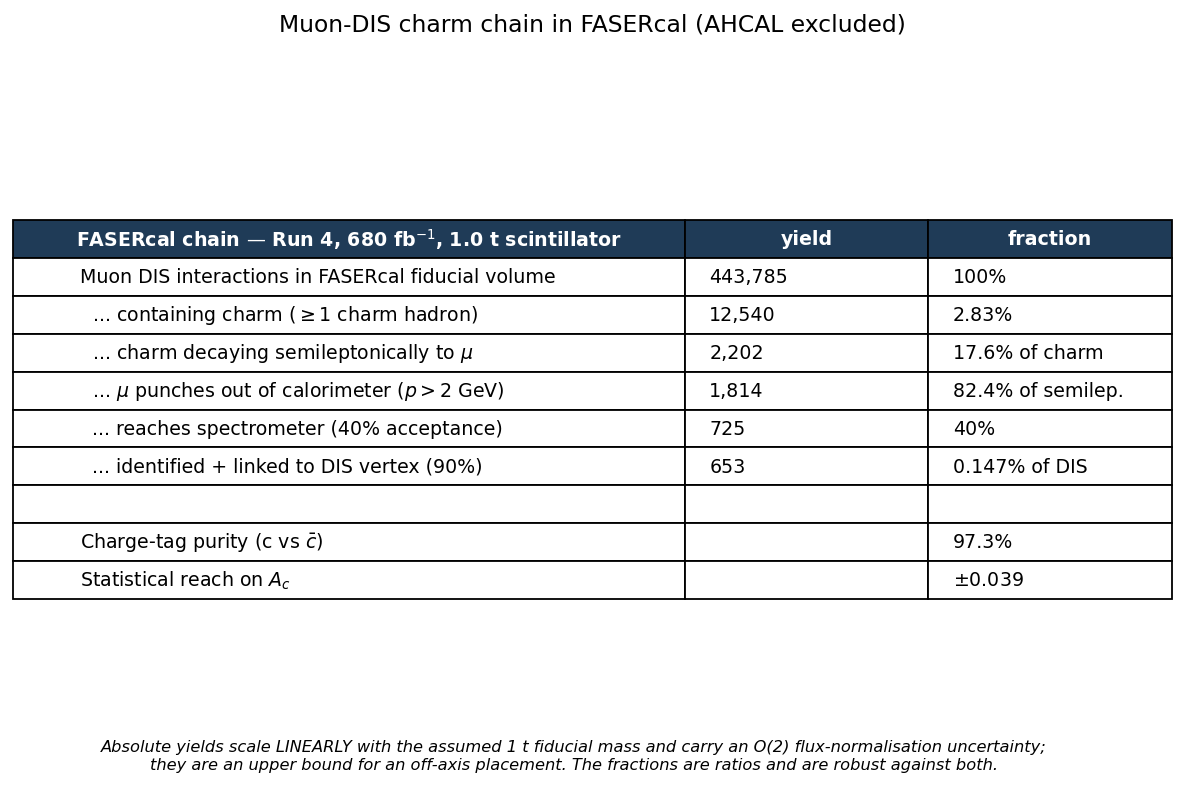
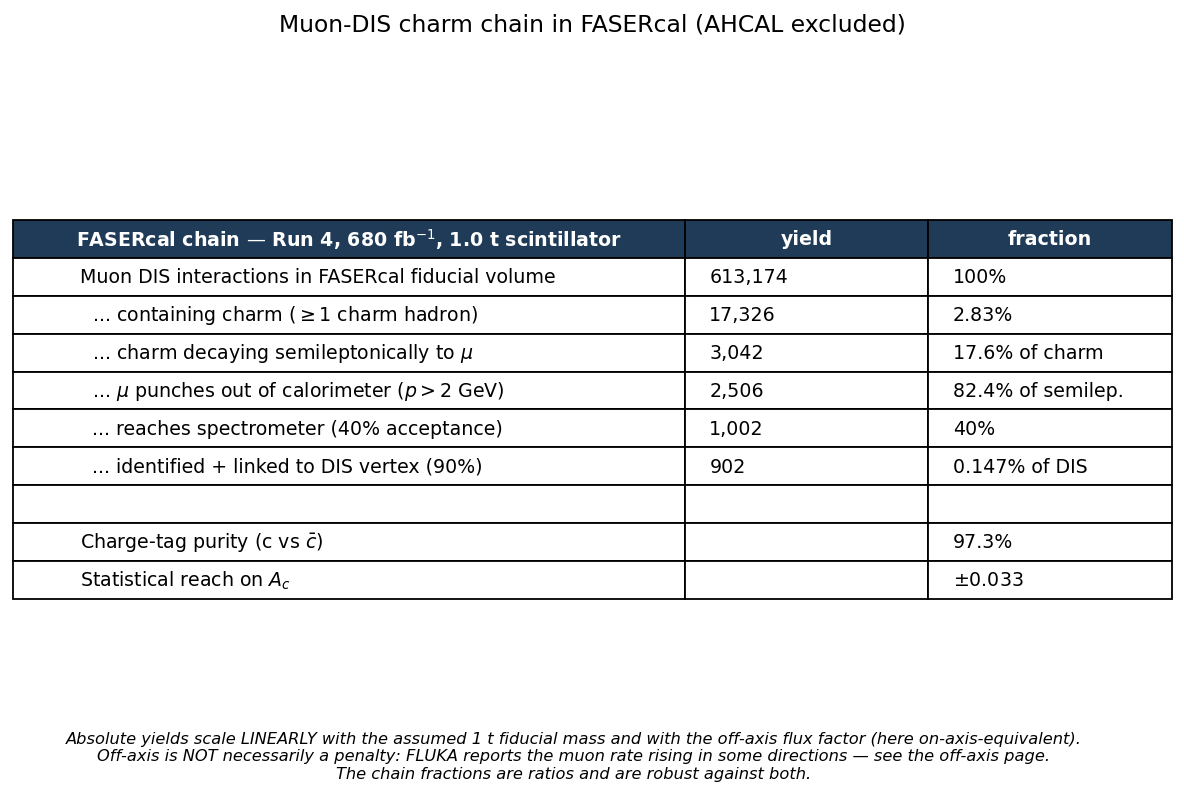
Off-axis flux as first-class input; fix reference mass (yields x1.38)
Two findings from reading arXiv:2506.13889 Sec 2 properly.

(a) REFERENCE MASS WAS WRONG. Eq (2.1) defines the flux as
f_mu = n_T L_T dN_mu/dx_mu, i.e. the tungsten target is baked into the flux
normalisation: a 25x30 cm^2 face over L_T = 50 cm of tungsten = 0.724 t, not
the 1.0 t assumed. Correcting M_REF_T raises all absolute yields by 1.382, and
partly closes the long-standing gap with the paper: 2.34x -> 1.69x. So a factor
1.38 of the known "~2x flux discrepancy" was a target-geometry bookkeeping
error, not a flux problem. Residual ~1.7x still attributed to the flux variant.

Nominal chain becomes: 613,174 DIS -> 17,326 charm -> 3,042 semileptonic mu ->
2,506 punch-through -> 1,002 accepted -> 902 tagged; sigma(A_c) = 0.033.
Fractions unchanged (they are ratios).

(b) THE "OFF-AXIS IS AN UPPER BOUND" CAVEAT WAS WRONG. The paper places the
detector axis at (1 cm, -3.3 cm) from the LoS, so the flux set is effectively
ON-AXIS -- but off-axis is not a monotonic suppression. The LHC lattice sweeps
mu+ and mu- in OPPOSITE directions (the paper's Fig 2.1 asymmetry), and FLUKA
studies for the FPF report the rate RISING by up to an order of magnitude in
some directions beyond ~1 m, and substantially higher at ~2 m in the horizontal
bending plane. Going off-axis can therefore INCREASE the muon-DIS yield.

F_FLUX is now a first-class, documented input with a scan over 0.3-10 (the
plausible range, a factor 30) and a dedicated report page: yields scale
[…]

Changed region(s): [[0.0, 0.2752, 1.0, 0.7643], [0.0625, 0.9172, 0.9062, 1.0]]

diff --git a/python/fasercal_chain.py b/python/fasercal_chain.py
@@ -25,17 +25,21 @@ factors, each of which is a separate, checkable assumption:
 MASS is a pure multiplicative factor, so the whole report can be rescaled to the
 real 3DCAL fiducial mass by changing M_FID_T alone.
 
-F_FLUX caveat: the flux set describes the on-axis line-of-sight muon flux.  An
-OFF-AXIS detector sees a reduced flux, and that suppression factor is NOT in the
-Run 4 TP (Sec. 6 is an empty placeholder in v0.01).  F_FLUX is therefore left at
-1.0 = "on-axis-equivalent flux per unit area", and every absolute yield in this
-report must be read as an UPPER BOUND for an off-axis placement until the real
-off-axis flux is supplied.
+F_FLUX caveat: the flux set is evaluated with the detector axis at
+(x,y) = (1 cm, -3.3 cm) w.r.t. the line of sight, i.e. effectively ON-AXIS.
+An off-axis detector does NOT simply see less: the LHC magnetic lattice sweeps
+mu+ and mu- in opposite directions, so the flux is strongly asymmetric about the
+LoS and FLUKA studies report it RISING by up to an order of magnitude in some
+directions beyond ~1 m.  Going off-axis can therefore increase the muon-DIS
+yield.  See the F_FLUX block below; the real off-axis fluence is a REQUIRED
+INPUT that is not yet available.
 
-Independently, the sibling FASERnu study found the absolute flux normalisation
-to sit ~2x below the published rate (unresolved, traced to the flux variant).
-Absolute yields therefore carry an O(2) normalisation uncertainty.  The
-EFFICIENCIES and FRACTIONS in the chain are ratios and are NOT affected.
+Independently, the sibling FASERnu study found the absolute normalisation ~2x
+below the published rate.  Correcting M_REF_T (the flux definition bakes in a
+25x30 cm^2 x 50 cm tungsten target = 0.724 t, not the 1 t previously assumed)
+accounts for a factor 1.38 of that; a residual ~1.7x remains unexplained.
+The EFFICIENCIES and FRACTIONS in the chain are ratios and are unaffected by all
+of this.
 """
 import numpy as np
 
@@ -59,9 +63,36 @@ COMPOSITION = {
 # placeholder, so this is an explicit assumption, chosen equal to the TP
 # benchmark target mass (1 t) so the numbers are directly comparable.
 # EVERY absolute yield scales linearly with this number.
-M_FID_T   = 1.0    # tonne, FASERcal 3DCAL fiducial volume (AHCAL excluded)
-M_REF_T   = 1.0    # tonne, reference mass implicit in the flux normalisation
-F_FLUX    = 1.0    # on-axis-equivalent flux; see module docstring
+M_FID_T = 1.0      # tonne, FASERcal 3DCAL fiducial volume (AHCAL excluded)
+
+# REFERENCE MASS implicit in the flux normalisation.  arXiv:2506.13889 Eq. (2.1)
+# defines the flux as f_mu(x_mu) = n_T L_T dN_mu/dx_mu, i.e. the TUNGSTEN TARGET
+# IS BAKED IN: a 25 x 30 cm^2 face over L_T = 50 cm of tungsten.
+#     25*30*50 cm^3 x 19.3 g/cm^3 = 0.724 t
+# (An earlier version of this code assumed 1.0 t, under-predicting all absolute
+#  yields by a factor 1.38.  See TECHNOTE_chain.md Sec. 5.2.)
+M_REF_T = 25.0 * 30.0 * 50.0 * 19.30 / 1.0e6     # = 0.724 t
+
+# ------------------------------------------------------------------ off-axis
+# The flux set is evaluated with the detector axis at (x,y) = (1 cm, -3.3 cm)
+# w.r.t. the nominal line of sight (paper Sec. 2), i.e. effectively ON-AXIS.
+#
+# F_FLUX is the ratio of the muon fluence per cm^2 at the actual detector
+# position to that on-axis value.  It is NOT a simple suppression:
+#   * the muon flux is strongly ASYMMETRIC about the LoS because the LHC
+#     magnetic lattice sweeps mu+ and mu- in opposite directions (paper Fig 2.1
+#     shows the resulting large mu/mubar asymmetry);
+#   * FLUKA studies for the FPF report the rate RISING by up to an order of
+#     magnitude in some directions beyond ~1 m from the LoS, and being
+#     substantially higher at ~2 m in the horizontal (bending) plane.
+# So going off-axis can INCREASE the muon-DIS yield.  A plausible working range
+# is ~0.3 (shielded/vertical) to ~10 (horizontal, beam-pipe side).
+#
+# REQUIRED INPUT: the FLUKA muon fluence at the 3DCAL position, or the off-axis
+# flux file used in the FASERcal studies.  Until then F_FLUX = 1.0 means
+# "on-axis-equivalent", and the off-axis scan in the report spans the range.
+F_FLUX = 1.0
+F_FLUX_RANGE = (0.3, 1.0, 3.0, 10.0)
 
 # --------------------------------------------------- detector response (toy)
 # The Run 4 TP Sec. 6.5/6.6 (spectrometer magnet, muon tracker) are empty, so
@@ -93,9 +124,10 @@ def charge_confusion(p, eta0, p_half_gev, p_width_gev, **_):
 
 
 # ------------------------------------------------------- tungsten scenarios
-def yield_per_tonne(d, material, lumi=LUMI_RUN4):
+def yield_per_tonne(d, material, lumi=LUMI_RUN4, f_flux=F_FLUX):
     """Per-event weights for 1 tonne of `material` at `lumi`."""
-    return event_weight(d, material=material, lumi=lumi, m_fid_t=1.0)
+    return event_weight(d, material=material, lumi=lumi, m_fid_t=1.0,
+                        f_flux=f_flux)
 
 
 def calibrate_cone(d, geo_base, params=None, rng=None):
@@ -138,7 +170,7 @@ def smeared_theta(d, geo, rng):
 
 
 def chain_scenario(d, t_w_cm, params=None, lumi=LUMI_RUN4, cone=None,
-                   rng=None, fixed_envelope=True):
+                   rng=None, fixed_envelope=True, f_flux=F_FLUX):
     """
     Full chain for a sampling geometry with `t_w_cm` tungsten per layer.
 
@@ -153,8 +185,8 @@ def chain_scenario(d, t_w_cm, params=None, lumi=LUMI_RUN4, cone=None,
     geo = G.configure(t_w_cm, fixed_envelope=fixed_envelope)
 
     # ---- yields per material, correct composition each ----
-    w = (yield_per_tonne(d, "scintillator_CH", lumi) * geo["m_sc"]
-         + yield_per_tonne(d, "tungsten", lumi) * geo["m_w"])
+    w = (yield_per_tonne(d, "scintillator_CH", lumi, f_flux) * geo["m_sc"]
+         + yield_per_tonne(d, "tungsten", lumi, f_flux) * geo["m_w"])
 
     n_dis = w.sum()
     is_charm = d["n_charm"] >= 1
@@ -185,7 +217,7 @@ def chain_scenario(d, t_w_cm, params=None, lumi=LUMI_RUN4, cone=None,
     # representative MCS width at the median decay-muon momentum
     med_p = float(np.median(mu_p[has_mu & (mu_p > 0)]))
     return dict(
-        geo=geo, t_w_cm=t_w_cm,
+        geo=geo, t_w_cm=t_w_cm, f_flux=f_flux,
         n_dis=n_dis, n_charm=n_charm, n_semi=n_semi,
         n_punch=n_punch, n_acc=n_acc, n_tag=n_tag,
         f_charm=n_charm / n_dis if n_dis else 0.0,

diff --git a/python/make_chain_report.py b/python/make_chain_report.py
@@ -66,10 +66,11 @@ def page_cutflow(pdf, d, m):
     for j in range(3):
         tab[0, j].set_facecolor("#1f3b57")
         tab[0, j].set_text_props(color="white", fontweight="bold")
-    fig.text(0.5, 0.10,
-             "Absolute yields scale LINEARLY with the assumed 1 t fiducial mass and carry an O(2) "
-             "flux-normalisation uncertainty;\nthey are an upper bound for an off-axis placement. "
-             "The fractions are ratios and are robust against both.",
+    fig.text(0.5, 0.09,
+             "Absolute yields scale LINEARLY with the assumed 1 t fiducial mass and with the "
+             "off-axis flux factor (here on-axis-equivalent).\nOff-axis is NOT necessarily a "
+             "penalty: FLUKA reports the muon rate rising in some directions — see the off-axis "
+             "page.\nThe chain fractions are ratios and are robust against both.",
              ha="center", fontsize=9, style="italic")
     ax.set_title("Muon-DIS charm chain in FASERcal (AHCAL excluded)", fontsize=13, pad=16)
     _emit(fig, pdf, "10_chain_cutflow", tight=False)
@@ -322,6 +323,44 @@ def page_tungsten_scan(pdf, d, cone):
     _emit(fig, pdf, "18_tungsten_scan")
 
 
+def page_offaxis(pdf, d, cone):
+    """
+    Off-axis flux: the single largest unquantified factor.
+
+    The flux set is evaluated essentially ON-AXIS (detector axis at
+    (1 cm, -3.3 cm) from the LoS, arXiv:2506.13889 Sec. 2).  Going off-axis is
+    NOT a simple suppression -- the LHC lattice sweeps mu+/mu- in opposite
+    directions, and FLUKA studies report the rate rising by up to an order of
+    magnitude in some directions beyond ~1 m.  This page spans the plausible
+    range so the answer can be read off once the real fluence is supplied.
+    """
+    import geometry as G
+    ff = np.logspace(np.log10(0.2), np.log10(12.0), 40)
+    fig, (ax1, ax2) = plt.subplots(1, 2, figsize=(14, 5.4))
+    cols = {"baseline_no_W": "#4c72b0", "W_1mm": "#dd8452", "W_5mm": "#c44e52"}
+    for nm, t in G.SCENARIOS.items():
+        tag = [F.chain_scenario(d, t, cone=cone, f_flux=float(f))["n_tag"] for f in ff]
+        sig = [F.chain_scenario(d, t, cone=cone, f_flux=float(f))["sigma_A"] for f in ff]
+        ax1.plot(ff, tag, "-", lw=2.2, color=cols[nm], label=nm.replace("_", " "))
+        ax2.plot(ff, sig, "-", lw=2.2, color=cols[nm], label=nm.replace("_", " "))
+    for ax in (ax1, ax2):
+        ax.set_xscale("log"); ax.set_yscale("log")
+        ax.axvline(1.0, color="black", ls="--", lw=1.4)
+        ax.axvspan(0.2, 1.0, color="gray", alpha=0.10)
+        ax.axvspan(1.0, 12.0, color="green", alpha=0.07)
+        ax.set_xlabel(r"off-axis flux factor $F_{\rm flux}$ (1 = on-axis)", fontsize=11)
+        ax.legend(fontsize=9); ax.grid(alpha=0.3, which="both")
+    ax1.set_ylabel("tagged charm muons (Run 4)", fontsize=11)
+    ax1.set_title("Yield scales linearly with the off-axis flux", fontsize=11.5)
+    ax2.set_ylabel(r"$\sigma(A_c)$", fontsize=11)
+    ax2.set_title(r"$\sigma(A_c)\propto 1/\sqrt{F_{\rm flux}}$", fontsize=11.5)
+    fig.suptitle("Off-axis flux — the largest unquantified factor. FLUKA reports the rate "
+                 "RISING off-axis in some\ndirections (green), so this is not necessarily a "
+                 "penalty. REQUIRED INPUT: fluence at the 3DCAL position.",
+                 fontsize=11.5)
+    _emit(fig, pdf, "19_offaxis_flux")
+
+
 def main():
     global PNG_DIR
     ap = argparse.ArgumentParser(description=__doc__)
@@ -346,6 +385,7 @@ def main():
         cone = F.calibrate_cone(d, G.configure(0.0))
         page_tungsten_scenarios(pdf, d, cone)
         page_tungsten_scan(pdf, d, cone)
+        page_offaxis(pdf, d, cone)
         if os.path.exists(args.npz_pc):
             page_ic(pdf, d, load(args.npz_pc))
 

diff --git a/docs/TECHNOTE_chain.md b/docs/TECHNOTE_chain.md
@@ -5,10 +5,16 @@
 semileptonically to a muon, how many of those muons reach the magnetised
 spectrometer, and how well can we identify, reconstruct and link them?
 
-**Answer in one line:** at Run 4 nominal luminosity and a 1 t scintillator
-fiducial mass, **≈4.4×10⁵ muon-DIS interactions → ≈650 charge-signed, vertex-linked
-charm muons**, i.e. **0.15 %** of DIS — giving a statistical reach on the charm
-asymmetry of **σ(A_c) ≈ ±0.04**.
+**Answer in one line:** at Run 4 nominal luminosity, a 1 t scintillator fiducial
+mass and **on-axis-equivalent flux**, **≈6.1×10⁵ muon-DIS interactions → ≈900
+charge-signed, vertex-linked charm muons**, i.e. **0.15 %** of DIS — giving a
+statistical reach on the charm asymmetry of **σ(A_c) ≈ ±0.033**.
+
+> **The off-axis flux is the largest single unknown and is a REQUIRED INPUT
+> (§5.2).** It is *not* a suppression factor: the LHC lattice sweeps µ⁺/µ⁻ in
+> opposite directions, and FLUKA studies report the muon rate *rising* by up to
+> an order of magnitude in some directions beyond ~1 m from the line of sight.
+> Yields scale linearly with it and σ(A_c) as 1/√F_flux.
 
 **With a tungsten absorber** (§8.2) the reach improves substantially and the
 multiple-scattering penalty is far smaller than expected: **1 mm W/layer →
@@ -211,16 +217,83 @@ band already flagged**, and does not indicate a missing factor. It does not
 sharpen the normalisation further, because the conversion needs an assumed
 L_inst and an assumed σ_DIS.
 
+### 5.2 Off-axis flux, and a reference-mass correction
+
+Reading arXiv:2506.13889 §2 in detail turned up **two things**, one a correction
+to this note and one a reversal of a stated caveat.
+
+**(a) The reference mass was wrong — absolute yields were 1.38× too low.**
+Eq. (2.1) of the paper defines the flux as
+
+    f_µ(x_µ) ≡ n_T L_T dN_µ/dx_µ(x_µ)
+
+i.e. **the tungsten target is baked into the flux normalisation**: the nucleon
+density n_T times L_T = 50 cm, over the 25 × 30 cm² FASERν face. That reference
+mass is
+
+    25 × 30 × 50 cm³ × 19.3 g/cm³ = **0.724 t**,  not the 1.0 t assumed here.
+
+Correcting `M_REF_T` raises every absolute yield by **1.382**. It also partly
+closes the long-standing normalisation gap with the paper:
+
+| | our MC (1 t W, 250 fb⁻¹) | paper Table 2.1 | gap |
+|---|---:|---:|---:|
+| before correction | 1.59×10⁵ | 2.7×10⁵ (0.724 t) | **2.34×** |
+| after correction | 2.20×10⁵ | 3.73×10⁵ (scaled to 1 t) | **1.69×** |
+
+So **a factor 1.38 of the known "~2× flux discrepancy" was a target-geometry
+bookkeeping error, not a flux problem.** A residual ~1.7× remains unexplained
+and is still attributed to the flux variant.
+
+**(b) The "off-axis is an upper bound" caveat was wrong — off-axis can be
+*higher*.** The paper places the detector axis at **(x, y) = (1 cm, −3.3 cm)**
+relative to the nominal line of sight, i.e. the flux set is effectively
+**on-axis**. But going off-axis is *not* a monotonic suppression:
+
+- The muon flux is strongly **asymmetric** about the LoS because the LHC magnetic
+  lattice sweeps µ⁺ and µ⁻ in **opposite** directions — the paper's Fig. 2.1
+  shows exactly this as a large µ/µ̄ asymmetry, with µ⁻ dominating at large x_µ.
+- FLUKA studies for the FPF report the muon rate **rising by up to an order of
+  magnitude in some directions beyond ~1 m** from the LoS, and being
+  substantially higher at ~2 m in the horizontal (bending) plane.
+
+A plausible working range for the off-axis factor is therefore **F_flux ≈ 0.3
+(shielded/vertical) to ≈ 10 (horizontal, beam-pipe side)**, spanning a factor 30.
+Yields scale linearly with it and σ(A_c) as 1/√F_flux:
+
+| F_flux | baseline tagged | σ(A_c) | 5 mm W tagged | σ(A_c) |
+|---|---:|---:|---:|---:|
+| ×0.3 | 271 | 0.061 | 1 852 | 0.023 |
+| **×1.0 (on-axis-equiv.)** | **902** | **0.033** | **6 175** | **0.013** |
+| ×3.0 | 2 712 | 0.019 | 18 524 | 0.007 |
+| ×10 | 9 039 | 0.011 | 61 746 | 0.004 |
+
+**REQUIRED INPUT:** the FLUKA muon fluence at the actual 3DCAL position (or the
+off-axis flux file used in the FASERcal studies), together with the position
+itself relative to the LoS. This is the **single largest unquantified factor in
+the study** — larger than the fiducial mass, the residual normalisation gap, and
+every detector assumption combined.
+
+> **A second-order consequence worth checking when that flux arrives.** Magnetic
+> sweeping is momentum-dependent (deflection ∝ 1/p), so an off-axis position does
+> not just rescale the flux — it *reshapes the spectrum*, preferentially
+> selecting lower-momentum muons. Since DIS and charm production both rise
+> steeply with E_µ, a softer off-axis spectrum would partly offset a higher
+> integrated rate. The per-event cache stores `e_in`, so a spectral reweighting
+> can be applied directly once the off-axis flux shape is available — no
+> re-showering needed.
+>
+> Relatedly, off-axis in the bending plane enriches **one beam charge**. That is
+> harmless for inclusive DIS (γ\* exchange is charge-blind, as the paper notes)
+> but is actually *helpful* for the dimuon tag, where a known beam charge makes
+> the opposite-sign/same-sign classification cleaner.
+
 ### Two normalisation caveats, stated plainly
 
-1. **Off-axis flux.** The flux set describes the **on-axis line-of-sight** muon
-   flux. An off-axis detector sees *less*. That suppression factor is not in the
-   TP (§6 is empty). `F_FLUX = 1.0` therefore means "on-axis-equivalent flux per
-   unit area", and **all absolute yields here are an upper bound for an off-axis
-   placement.**
-2. **Known ~2× flux discrepancy.** The sibling FASERν study found this absolute
-   normalisation sitting ~2× below the published rate — unresolved, traced to the
-   flux variant used. Absolute yields therefore carry an **O(2) uncertainty**.
+1. **Off-axis flux — see §5.2.** Superseded: off-axis is *not* a simple
+   suppression, and the naive "upper bound" statement was wrong.
+2. **Residual ~1.7× normalisation gap** after the reference-mass correction of
+   §5.2. Absolute yields carry that uncertainty; fractions do not.
 
 **The efficiencies and fractions in the chain are ratios and are immune to both.**
 They are the robust deliverable; absolute yields should be read with the above.
@@ -271,19 +344,22 @@ Run 4, 680 fb⁻¹, 1 t scintillator fiducial, `production_v1` (fitted charm):
 
 | stage | events | fraction |
 |---|---:|---|
-| Muon DIS in FASERcal fiducial volume | **443 785** | 100 % |
-| … containing charm (≥1 charm hadron) | **12 540** | 2.83 % of DIS |
-| … charm decaying semileptonically to µ | **2 202** | 17.6 % of charm |
-| … µ punches out of calorimeter (p > 2 GeV) | **1 814** | 82.4 % |
-| … reaches spectrometer (40 % acceptance) | **725** | 40 % |
-| … identified + linked to DIS vertex (90 %) | **653** | **0.147 % of DIS** |
+| Muon DIS in FASERcal fiducial volume | **613 174** | 100 % |
+| … containing charm (≥1 charm hadron) | **17 326** | 2.83 % of DIS |
+| … charm decaying semileptonically to µ | **3 042** | 17.6 % of charm |
+| … µ punches out of calorimeter (p > 2 GeV) | **2 506** | 82.4 % |
+| … reaches spectrometer (40 % acceptance) | **1 002** | 40 % |
+| … identified + linked to DIS vertex (90 %) | **902** | **0.147 % of DIS** |
+
+*(Normalisation corrected per §5.2(a): ×1.382 relative to the first version of
+this note. Fractions are unchanged — they are ratios.)*
 
 | quantity | value |
 |---|---|
 | charge-tag purity (c vs c̄) | 97.3 % |
 | mean charge confusion η | 2.7 % |
 | truth charm asymmetry A_c | −0.022 |
-| **statistical reach σ(A_c)** | **±0.039** |
+| **statistical reach σ(A_c)** | **±0.033** |
 | raw MC events behind the tagged sample | 10 002 (statistically solid) |
 
 Supporting distributions:
